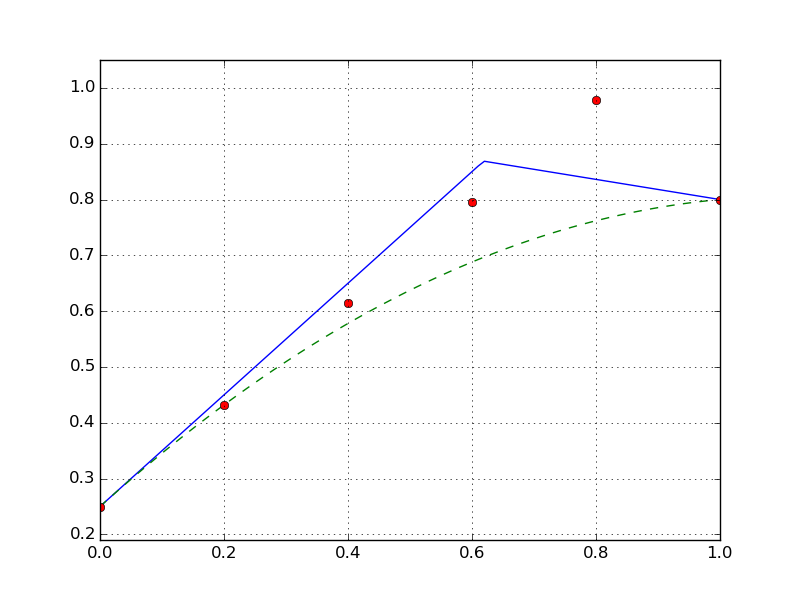
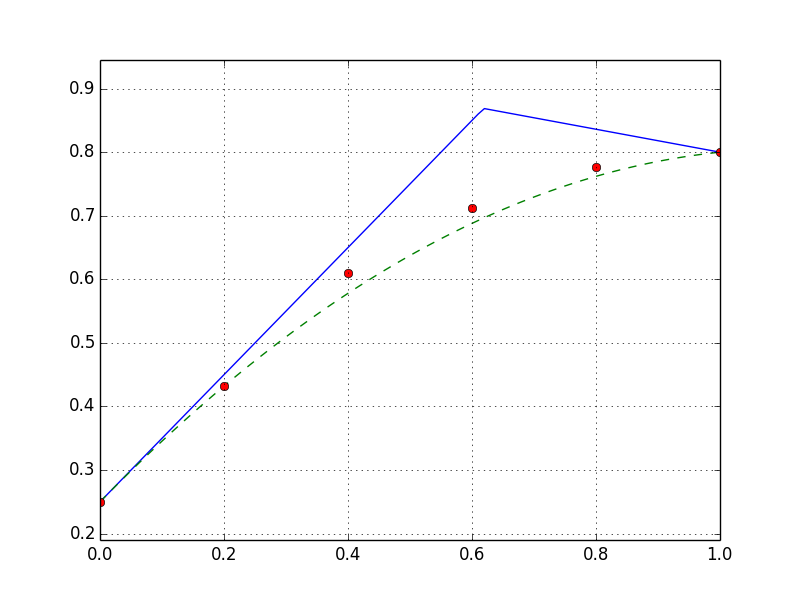
0.5 -> 0.5/h

diff --git a/SteadyFlow/FDM_1D_2_prev_dt_dphi.py b/SteadyFlow/FDM_1D_2_prev_dt_dphi.py
@@ -28,6 +28,7 @@ Nx = 6
 dx = WIDTH / (Nx - 1)
 
 dt = 1e-4
+#dt = 0.04*dx**2
 
 eps = 1e-9
 
@@ -66,8 +67,12 @@ if __name__ == "__main__":
     #phi[1] = phi[0] + dPhi_0 * dx
     #phi[-1] = Phi_a
     
+#     Result phi = 
+# [ 0.2500000  0.3836735  0.5084070  0.6011152  0.6849887  0.7394815
+#   0.7871739  0.8000000]
+    
     cnt = 0
-    while cnt <50000:
+    while cnt <1500:
         cnt += 1
         print("Iteration {0}".format(cnt))
         
@@ -95,7 +100,7 @@ if __name__ == "__main__":
             phi_xx = phi[j + 1] - 2 * phi[j] + phi[j - 1]
             phi_xx2 = (phi[j] - 2 * phi[j - 1] + phi[j - 2])
             
-            b[j] = -phi_xx * (phi_xx2 * (K - 0.5*(gamma+1) *\
+            b[j] = -phi_xx * (phi_xx2 * (K - (0.5 / dx)*(gamma+1) *\
             (phi[j+1] - phi[j] + phi[j-1] - phi[j-2]))*dt/dx\
              - (-phi[j-1]+phi_prev[j-1])*dx/(2*dt))
             
@@ -103,7 +108,7 @@ if __name__ == "__main__":
             A[j][j-2] += phi_xx
             A[j][j-1] += -phi_xx * dx / (2*dt)
 
-            b[j] += -phi_xx2 * (phi_xx * (K - 0.5*(gamma+1) *\
+            b[j] += -phi_xx2 * (phi_xx * (K - (0.5 / dx)*(gamma+1) *\
             (phi[j+1] - phi[j] + phi[j-1] - phi[j-2]))*dt/dx\
             - (-phi[j]+phi_prev[j])*dx/(2*dt))
             
@@ -111,14 +116,14 @@ if __name__ == "__main__":
             A[j][j-1] += phi_xx2
             A[j][j] += -phi_xx2 * dx / (2*dt)           
         
-        print("A =", A)
-        print("b =", b)
+        #print("A =", A)
+        #print("b =", b)
         
         cur = np.linalg.solve(A, b)
         
         cur = cur.reshape(Nx)
         
-        print("cur =", cur)
+        #print("cur =", cur)
         print("phi =", phi)
         #print("cur - phi =", cur - phi)
         

diff --git a/SteadyFlow/FDM_1D_Graph.py b/SteadyFlow/FDM_1D_Graph.py
@@ -26,6 +26,14 @@ if __name__ == "__main__":
     phi = [ 0.2500000,  0.4718750,  0.6937495,  0.9156219,  0.8000000]
     phi = [ 0.2500000,  0.5333333,  0.8166645,  0.8000000]
     phi = [ 0.2500000,  0.4320000,  0.6140000,  0.7959999,  0.9779974,  0.8000000]
+    
+    phi = [ 0.2500000,  0.3836735,  0.5141996,  0.6118269,  0.7039459,  0.7473233,
+  0.8111418,  0.8000000]
+  
+    phi = [ 0.2500000,  0.3836735,  0.5137462,  0.5999354,  0.6852008,  0.7381155,
+  0.7823218,  0.8000000]
+  
+    phi = [ 0.2500000,  0.4320000,  0.6106955,  0.7114971,  0.7772239,  0.8000000]
 
 
     x = np.linspace(0, WIDTH, len(phi))

diff --git a/SteadyFlow/falkowich-karman-slide.py b/SteadyFlow/falkowich-karman-slide.py
@@ -103,7 +103,7 @@ for i in range(10000):
   f0 = f1
   f1 = f2
   if i % 500 == 0:
-    print i
+    #print i
     g = graph.graphxy(width=8, x=graph.axis.linear(title=r"$x$", min=0.0, max=1.0),\
                               y=graph.axis.linear(title=r"$\varphi(x)$"))
     g.plot(graph.data.function("y(x)=fi(x)", context=locals()))
